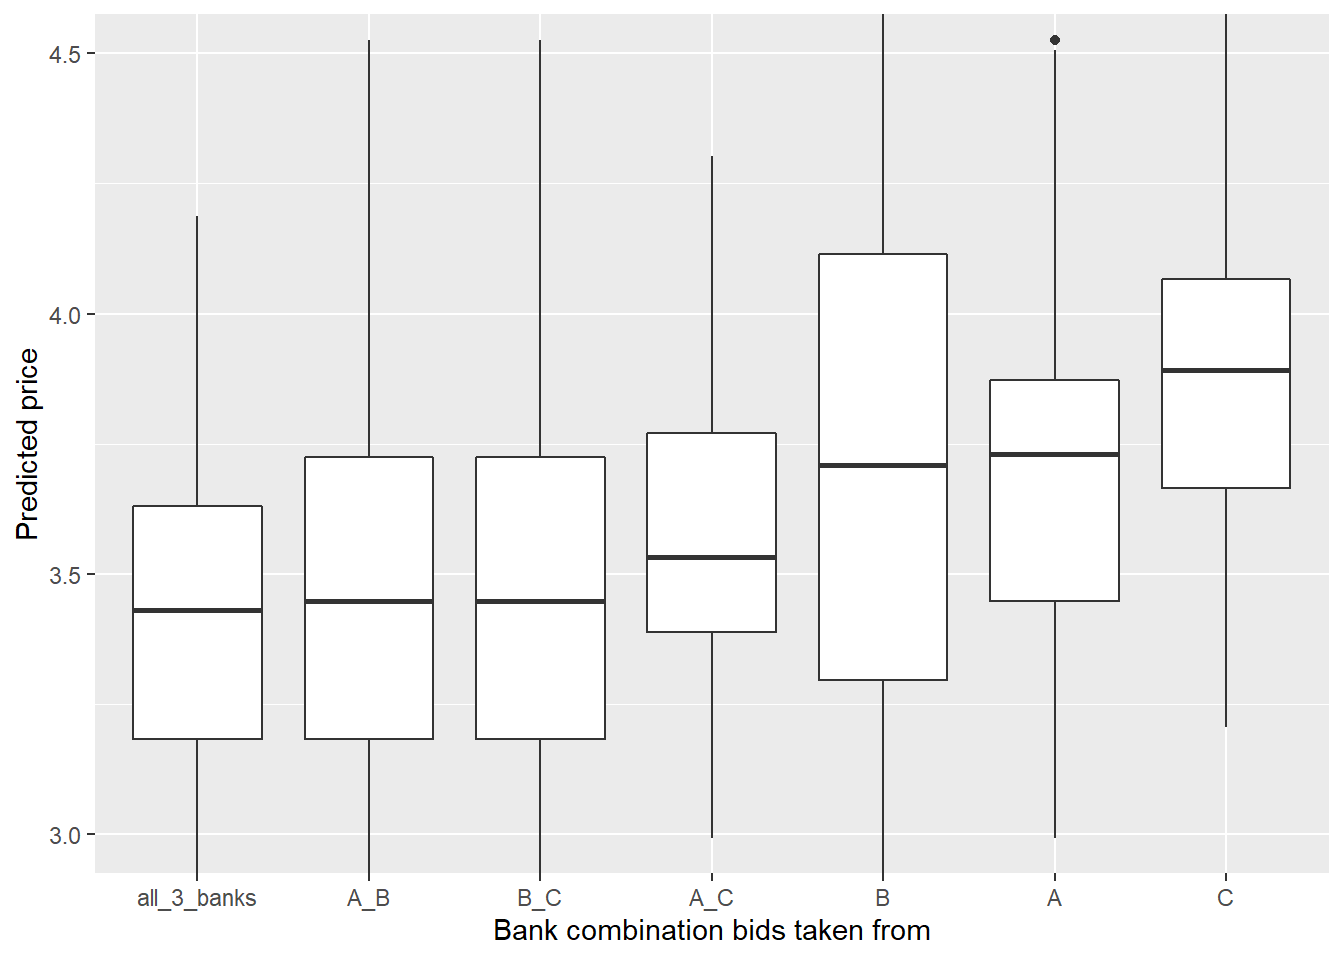
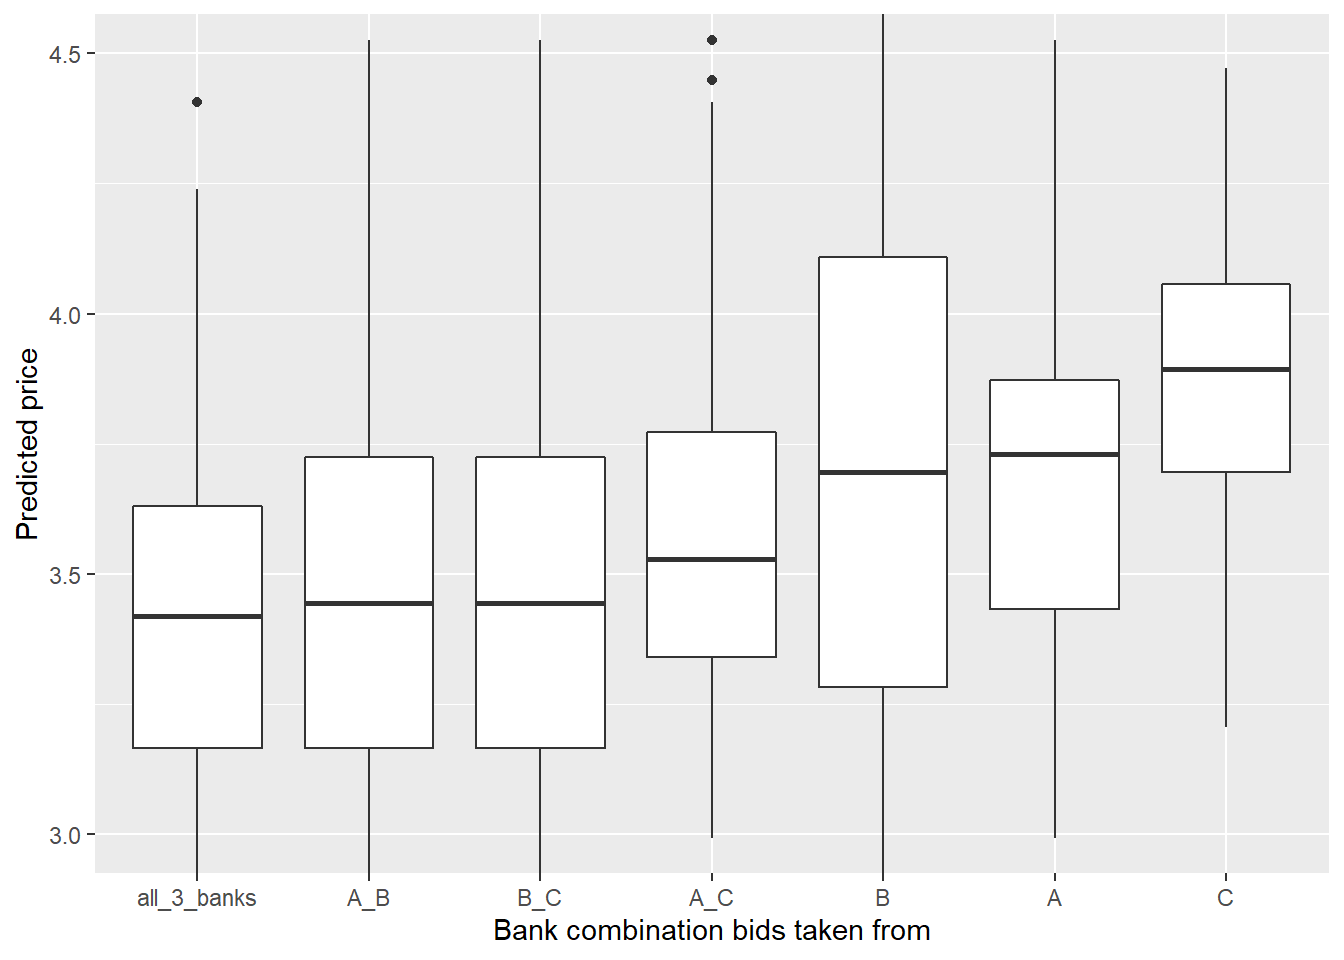
asda

diff --git a/_site/1_mortgage.html b/_site/1_mortgage.html
@@ -203,7 +203,6 @@ code span.wa { color: #60a0b0; font-weight: bold; font-style: italic; } /* Warni
 <section id="background" class="level1">
 <h1>Background</h1>
 <p>This is a short explanation of the simulation implementation we did in the research <a href="https://www.gov.il/he/departments/publications/reports/mortgagemarket-final">Information problems in the mortgage market in Israel: price dispersion and search</a>. For more information one can read the final report or dive even more into technical details published in the <a href="https://www.gov.il/he/departments/publications/reports/mortgagemarket-draft">draft with the annexes</a>. sadly, the report was published solely in Hebrew, though there is an extended abstract (8 pages long) in English at <a href="mortgage_data/Information%20Asymmetry%20and%20the%20Gains%20from%20Shopping%20Evidence%20from%20the%20Israeli%20Mortgage%20Market.pdf">this link</a></p>
-<p>there is a short version in English of the main results from the paper in thins link <a href="mortgage_data/Information%20Asymmetry%20and%20the%20Gains%20from%20Shopping%20Evidence%20from%20the%20Israeli%20Mortgage%20Market.pdf">someFile</a></p>
 <p>The data-base used for the mortgage research consisted of nearly all mortgage data documented by the 3 largest banks in Israel in the years 2015-2017. In addition, we had all official mortgage bids consumers received in those years from the entire banking system. (Accessing this elaborate data is one of the perks of working in the competition authority)</p>
 <p>It took me several month to build a unified data-base from the 3 banks. The aim was to keep as much explanatory variables as possible so we can learn what determines the price consumers pay across the entire sample simultaneously.</p>
 <p>As we learned the data, we observed substantial price dispersion between customers. Even though we practically had everything the bank documented about the loan, regression model’s residuals were highly dispersed. The models presented varying residual dispersion between non-bidders (consumers that don’t get another bid from another bank) and bidders. In addition, our estimates of the effect of extra bid on the price consumer will pay seemed rather small. Our qualitative information about the market suggested that there are substantial <a href="https://en.wikipedia.org/wiki/Search_cost">search costs</a> consumers endure. So, we wanted to exemplify what should be the change in price in a friction-less environment when the customer gets more bids before purchase of a mortgage loan.</p>
@@ -411,12 +410,12 @@ The next function computes the predictions for each list of models.</p>
 <div class="sourceCode cell-code" id="cb17"><pre class="sourceCode r code-with-copy"><code class="sourceCode r"><span id="cb17-1"><a href="#cb17-1" aria-hidden="true" tabindex="-1"></a><span class="fu">head</span>(customer_10)</span></code><button title="Copy to Clipboard" class="code-copy-button"><i class="bi"></i></button></pre></div>
 <div class="cell-output cell-output-stdout">
 <pre><code>  simulation_n id bank prediction A B C
-1            1 10    A       3.74 1 0 0
-2            2 10    A       3.74 1 0 0
-3            3 10    A       3.09 1 0 0
-4            4 10    A       3.29 1 0 0
-5            5 10    A       4.53 1 0 0
-6            6 10    A       3.86 1 0 0</code></pre>
+1            1 10    A       4.09 1 0 0
+2            2 10    A       4.41 1 0 0
+3            3 10    A       3.18 1 0 0
+4            4 10    A       3.82 1 0 0
+5            5 10    A       3.53 1 0 0
+6            6 10    A       3.34 1 0 0</code></pre>
 </div>
 </div>
 <p>It’s not easy to look at 7 distributions simultaneously as well as in this case it doesn’t really make sense. If the customer originally was from bank C (where she runs her checking account and inclined to ask for a mortgage there), than we would like to see what she could have gained from an additional bid from bank A, B or both.</p>

diff --git a/_site/mortgage.html b/_site/mortgage.html
@@ -412,12 +412,12 @@ The next function computes the predictions for each list of models.</p>
 <div class="sourceCode cell-code" id="cb17"><pre class="sourceCode r code-with-copy"><code class="sourceCode r"><span id="cb17-1"><a href="#cb17-1" aria-hidden="true" tabindex="-1"></a><span class="fu">head</span>(customer_10)</span></code><button title="Copy to Clipboard" class="code-copy-button"><i class="bi"></i></button></pre></div>
 <div class="cell-output cell-output-stdout">
 <pre><code>  simulation_n id bank prediction A B C
-1            1 10    A       3.72 1 0 0
-2            2 10    A       3.18 1 0 0
-3            3 10    A       3.45 1 0 0
-4            4 10    A       4.41 1 0 0
-5            5 10    A       3.55 1 0 0
-6            6 10    A       4.02 1 0 0</code></pre>
+1            1 10    A       3.45 1 0 0
+2            2 10    A       3.88 1 0 0
+3            3 10    A       3.29 1 0 0
+4            4 10    A       3.53 1 0 0
+5            5 10    A       3.74 1 0 0
+6            6 10    A       3.91 1 0 0</code></pre>
 </div>
 </div>
 <p>is not easy to look at 7 distributions simultaneously as well as it doesn’t really make sense. If the customer originally was from bank C, than we would like to see what she could have gaind from bidding banks A and B. The <code>f_plot</code> function plots 4 distributions from a certain bank costomer’s perspective.</p>
